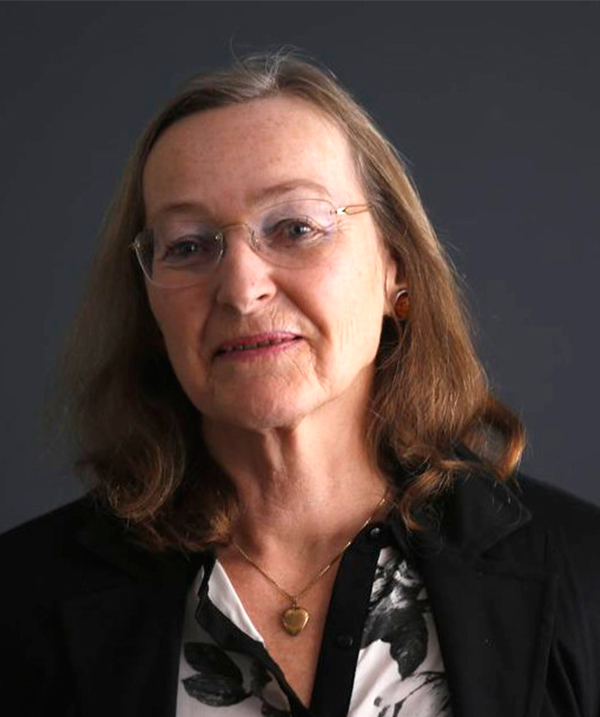
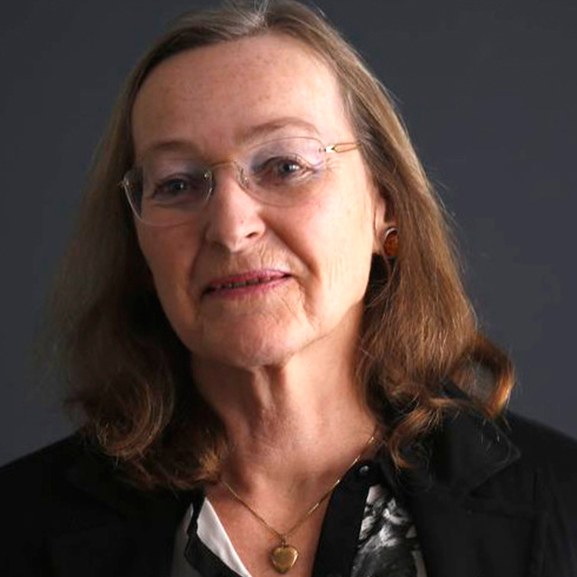
close #776 new om os layout

Changed region(s): [[0.0, 0.0, 1.0, 1.0], [0.9983, 0.9671, 1.0, 1.0], [0.312, 0.4367, 0.3432, 0.4679]]

diff --git a/_layouts/contact.html b/_layouts/contact.html
@@ -1,0 +1,61 @@
+---
+layout: default
+---
+
+<div class="container-fluid narrow-container pt-20 no-down">
+    <div class="full-width-of"><img class="object-fit" src="/images/graphic/kontakt-header.png" alt=""></div>
+</div>
+
+<div class="container-fluid narrow-container no-up">
+    <div class="grid-2 r-gap-20 gap-90 fast-grid">
+        <div>
+            <h2>Copenhagen Coaching Center</h2>
+            <p>+45 39 20 10 20<br>
+                Blegdamsvej 104 A, 2. Sal <br>
+                2100 Kbh Ø</p>
+            <br>
+            <iframe
+                src="https://www.google.com/maps/embed?pb=!1m18!1m12!1m3!1d2248.530443220061!2d12.571174951490706!3d55.697150980442906!2m3!1f0!2f0!3f0!3m2!1i1024!2i768!4f13.1!3m3!1m2!1s0x465252fc41a2fdff%3A0x5cffffd334cabc42!2sBlegdamsvej%20104A%2C%202100%20K%C3%B8benhavn!5e0!3m2!1sda!2sdk!4v1612362940181!5m2!1sda!2sdk"
+                width="100%" height="300" frameborder="0" style="border:0;" allowfullscreen="" aria-hidden="false"
+                tabindex="0"></iframe>
+        </div>
+        <div class="grid-1 justify-center bg-platinum">
+            <br>
+            <h2>Skriv til os</h2>
+            
+            <form class="smooth-form" action="https://formspree.io/moqllqyp" method="POST">
+
+
+
+                <input type="text" name="navn" placeholder="Navn">
+                <input type="text" name="email" placeholder="Email">
+
+                <select class="input-form udd" name="spørgsmål">
+                    <option value="emne">Vælg emne</option>
+
+                    <option value="admin@copenhagencoaching.dk Jeg-har-spørgsmål-til-admin/bogholderi">Jeg har spørgsmål
+                        til admin/bogholderi</option>
+                    <option value="ab@copenhagencoaching.dk Jeg-har-spørgsmål-til-valg-af-uddannelse">Jeg har spørgsmål
+                        til valg af uddannelse</option>
+                    <option value="fw@copenhagencoaching.dk Jeg-har-spørgsmål-til-min-nuværende-uddannelse">Jeg har
+                        spørgsmål til min nuværende uddannelse</option>
+                    <option
+                        value="ab@copenhagencoaching.dk Vi-er-interesserede-i-skræddersyet-kursus-til-vores-virksomhed">
+                        Vi er interesserede i skræddersyet kursus til vores virksomhed</option>
+                    <option value="community@copenhagencoaching.dk Jeg-er/eller-vil-gerne-være-medlem-af-Community">Jeg
+                        er/eller vil gerne være medlem af Community</option>
+                    <option value="kontakt@copenhagencoaching.dk Jeg-har-andre-spørgsmål">Jeg har andre spørgsmål
+                    </option>
+
+                </select>
+
+
+                <textarea name="besked" cols="30" rows="10" placeholder="Besked"></textarea>
+
+
+                <!-- your other form fields go here -->
+                <button class="green-button" type="submit">Send besked</button>
+            </form>
+        </div>
+    </div>
+</div>

diff --git a/_layouts/about.html b/_layouts/about.html
@@ -2,39 +2,58 @@
 layout: page
 title: About
 ---
-<div id="team" class="employees">
-  <div class="container-fluid narrow-container no-up">
-  <h1>Mød teamet</h1>
-  <div class="wrapper">
+
+<div class="bg-blue">
+  <div class="container-fluid narrow-container">
+    <h1 class="white">Mød teamet</h1>
+    <br>
+    <div class="grid-3 medium-slow-grid r-gap-60 gap-60">
+
       {% assign sorted_empl = site.employees | sort: "order" %}
       {% for employee in sorted_empl %}
-      <a class="{{ employee.title }}" href="{{ employee.url }}">
-          <img class="emp-image" src="{{ employee.portrait-image }}" alt="{{ employee.title }}">
-          <h5>{{ employee.title }}</h5>
-          <p>{{ employee.description }}<br>{{ employee.email }}<br>{{ employee.call }}</p>
-      </a>
+      <div class="bg-platinum p-20">
+        <a class="{{ employee.title }}" href="{{ employee.url }}">
+          <div class="grid-1">
+            <div>
+              <h4 class="mb-0">{{ employee.title }}</h4>
+              <p class="thin">{{ employee.description }}</p>
+              <p>{{ employee.email }}<br>{{ employee.call }}</p>
+            </div>
+            <div class="grid-1 align-right justify-content-right">
+              <div class="outer-medium-round-image">
+                <img class="medium-round-image" src="{{ employee.grey-portrait }}" alt="{{ employee.title }}">
+              </div>
+            </div>
+
+          </div>
+
+        </a>
+      </div>
+
       {% endfor %}
+    </div>
+
+
   </div>
-</div>
 </div>
 
 
 {% include partners.html %}
 
 <div class="container-fluid narrow-container">
-<section class="content">
-  {% assign orderedfundament = site.fundament | sort: "order" %}
-  {% for fundament in orderedfundament %}
-  <div class="wrapper">
+  <section class="content">
+    {% assign orderedfundament = site.fundament | sort: "order" %}
+    {% for fundament in orderedfundament %}
+    <div class="wrapper">
       <img class="content-img" src="{{ fundament.image }}" alt="{{ fundament.title }}">
       <span>
-          <h1 class="title">{{ fundament.title }}</h1>
-          <p>{{ fundament.content | truncatewords: 60, "" }}...</p>
+        <h1 class="title">{{ fundament.title }}</h1>
+        <p>{{ fundament.content | truncatewords: 60, "" }}...</p>
         <a class="fundament-link" href="{{ fundament.url }}">Læs mere om {{ fundament.title }} her ⟶</a>
       </span>
-  </div>
-  {% endfor %}
-</section>
+    </div>
+    {% endfor %}
+  </section>
 
 </div>
 

diff --git a/_sass/bootstrap/mixins/_alert.scss b/_sass/bootstrap/mixins/_alert.scss
@@ -26,6 +26,12 @@
   }
 }
 
+@mixin under-phone() {
+  @media (max-width: 340px) {
+    @content;
+  }
+}
+
 @mixin for-tablet() {
   @media (max-width: 768px) {
     @content;
@@ -293,6 +299,10 @@ a {
   column-gap: 90px !important;
 }
 
+.gap-60 {
+  column-gap: 60px !important;
+}
+
 .gap-20 {
   column-gap: 20px !important;
 }
@@ -368,6 +378,12 @@ a {
   @include for-tablet {
     grid-template-columns: 1fr;
   }
+
+  &.fast-grid {
+    @include for-laptop {
+      grid-template-columns: 1fr;
+    }
+  }
 }
 
 .grid-3 {
@@ -398,6 +414,17 @@ a {
   
     @include for-phone-only {
       grid-template-columns: 1fr 1fr 1fr;
+    }
+  }
+
+  &.medium-slow-grid {
+  
+    @include for-bot {
+      grid-template-columns: 1fr 1fr;
+    }
+
+    @include for-phone-only {
+      grid-template-columns: 1fr;
     }
   }
 }

diff --git a/_sass/bootstrap/_images.scss b/_sass/bootstrap/_images.scss
@@ -61,6 +61,25 @@
   display: inline-block;
 }
 
+.medium-round-image {
+  object-fit: cover;
+  width: 100%;
+  max-width: 350px;
+  border-radius: 1000px;
+}
+
+.outer-medium-round-image {
+  height: 80%;
+  width: 80%;
+  text-align: center;
+  display: inline-block;
+
+ /*  @include for-laptop {
+    height: 30%;
+    width: 30%;
+  } */
+}
+
 .center {
   text-align: center;
 }
@@ -76,7 +95,10 @@
 }
 
 
-
+.full-width-of {
+  width: 100%;
+  height: 30%;
+}
 
 .object-fit {
   object-fit: cover;

diff --git a/_sass/bootstrap/_forms.scss b/_sass/bootstrap/_forms.scss
@@ -409,3 +409,25 @@ textarea.form-control {
     top: 1150px;
   }
 }
+
+.smooth-form {
+  max-width: 650px;
+  margin: 20px;
+  input, textarea, select {
+    display: block;
+    border: none;
+    width: 100%;
+    margin-bottom: 20px;
+    padding: 10px;
+  }
+
+  button {
+    margin: auto;
+    display: block;
+  }
+
+  textarea {
+    height: 200px;
+  }
+
+}

diff --git a/_sass/bootstrap/_grid.scss b/_sass/bootstrap/_grid.scss
@@ -354,3 +354,14 @@ video {
   margin: 10px 0;
   border-top: 2px solid $almond;
 }
+
+
+.justify-content-right {
+  justify-content: end;
+  justify-items: end;
+}
+
+.justify-center {
+  justify-content: center;
+  justify-items: center;
+}

diff --git a/_employees/anni-rosengren-korsbæk.md b/_employees/anni-rosengren-korsbæk.md
@@ -3,6 +3,7 @@ order: "8"
 title: Anni Rosengren Korsbæk
 portrait-image: "/images/about/employees/anni-r-korsbæk.jpg"
 small-portrait-image: "/images/about/employees/anni-r-korsbæk.jpg"
+grey-portrait: /images/about/medarbejdere-sort-hvid/anni-r-korsbæk-sort-hvid.jpg
 call: 51 48 84 33
 email: ark@copenhagencoaching.dk
 description: Associeret partner

diff --git a/_employees/andreas-bering.md b/_employees/andreas-bering.md
@@ -3,6 +3,7 @@ order: "1"
 title: Andreas Bering
 portrait-image: "/images/about/employees/andreas-bering.png"
 small-portrait-image: "/images/about/small-images/andreas-bering.png"
+grey-portrait: /images/about/medarbejdere-sort-hvid/andreas-bering-sort-hvid.png
 call: 40 14 92 92
 email: ab@copenhagencoaching.dk
 description: Direktør og GDPR ansvarlig

diff --git a/_employees/frederikke-winther.md b/_employees/frederikke-winther.md
@@ -3,6 +3,7 @@ order: "4"
 title: Frederikke Winther
 portrait-image: "/images/about/employees/frederikke-winther.png"
 small-portrait-image: "/images/about/small-images/frederikke-winther.png"
+grey-portrait: /images/about/medarbejdere-sort-hvid/frederikke-winther-sort-hvid.png
 call: 21 19 47 57
 email: fw@copenhagencoaching.dk
 description: Konsulent

diff --git a/_employees/lars-nyborg.md b/_employees/lars-nyborg.md
@@ -3,6 +3,7 @@ title: Lars Nyborg
 order: "6"
 portrait-image: "/images/about/employees/lars-nyborg.png"
 small-portrait-image: "/images/about/small-images/lars-nyborg.png"
+grey-portrait: /images/about/medarbejdere-sort-hvid/lars-nyborg-sort-hvid.png
 call: 27 11 42 44
 email: ln@copenhagencoaching.dk
 description: Associeret partner

diff --git a/_employees/mette-mejhede.md b/_employees/mette-mejhede.md
@@ -3,6 +3,7 @@ title: Mette Mejlhede
 order: "2"
 portrait-image: "/images/about/employees/mette-mejlhede.png"
 small-portrait-image: "/images/about/small-images/mette-mejlhede.png"
+grey-portrait: /images/about/small-images/mette-mejlhede.png
 call: 24 27 28 71
 email: mm@copenhagencoaching.dk
 description: Direktør

diff --git a/_employees/kim-gørtz.md b/_employees/kim-gørtz.md
@@ -3,6 +3,7 @@ order: "5"
 title: Kim Gørtz
 portrait-image: "/images/about/employees/kim-gørtz.png"
 small-portrait-image: "/images/about/small-images/kim-gørtz.png"
+grey-portrait: /images/about/employees/kim-gørtz-geryscale.png
 call: 24 66 40 78
 email: kg@copenhagencoaching.dk
 description: Seniorkonsulent
